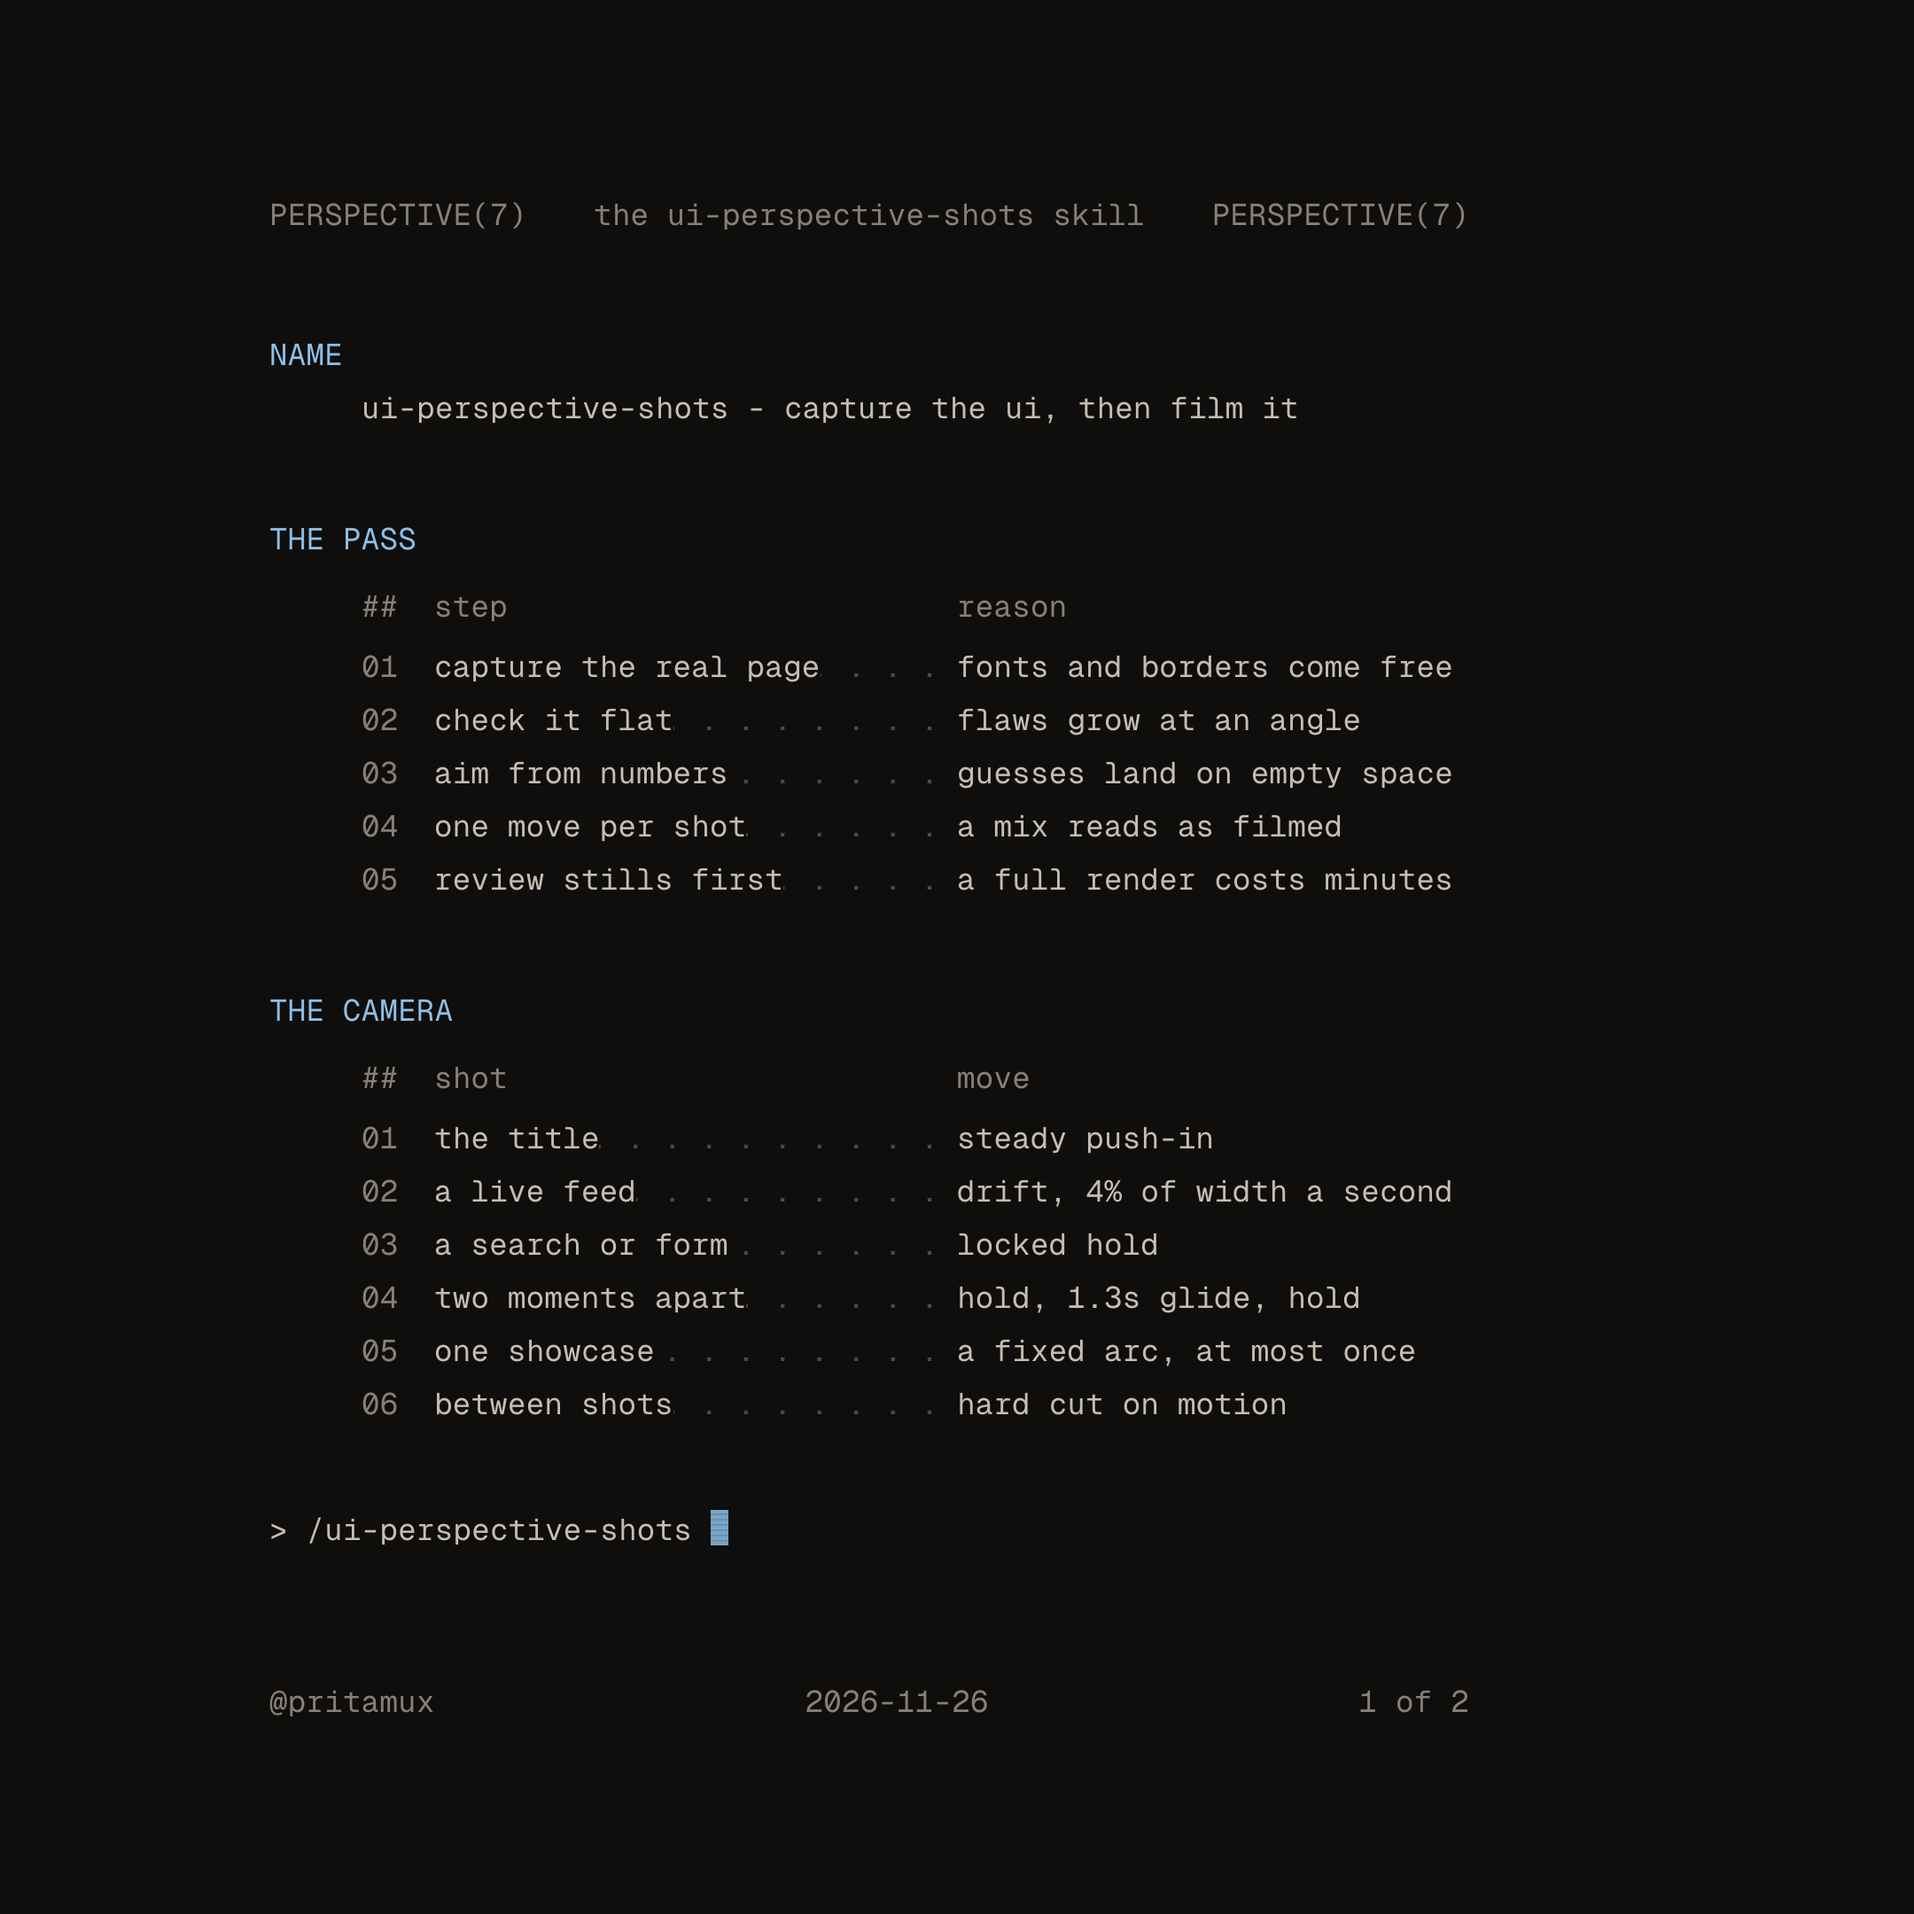
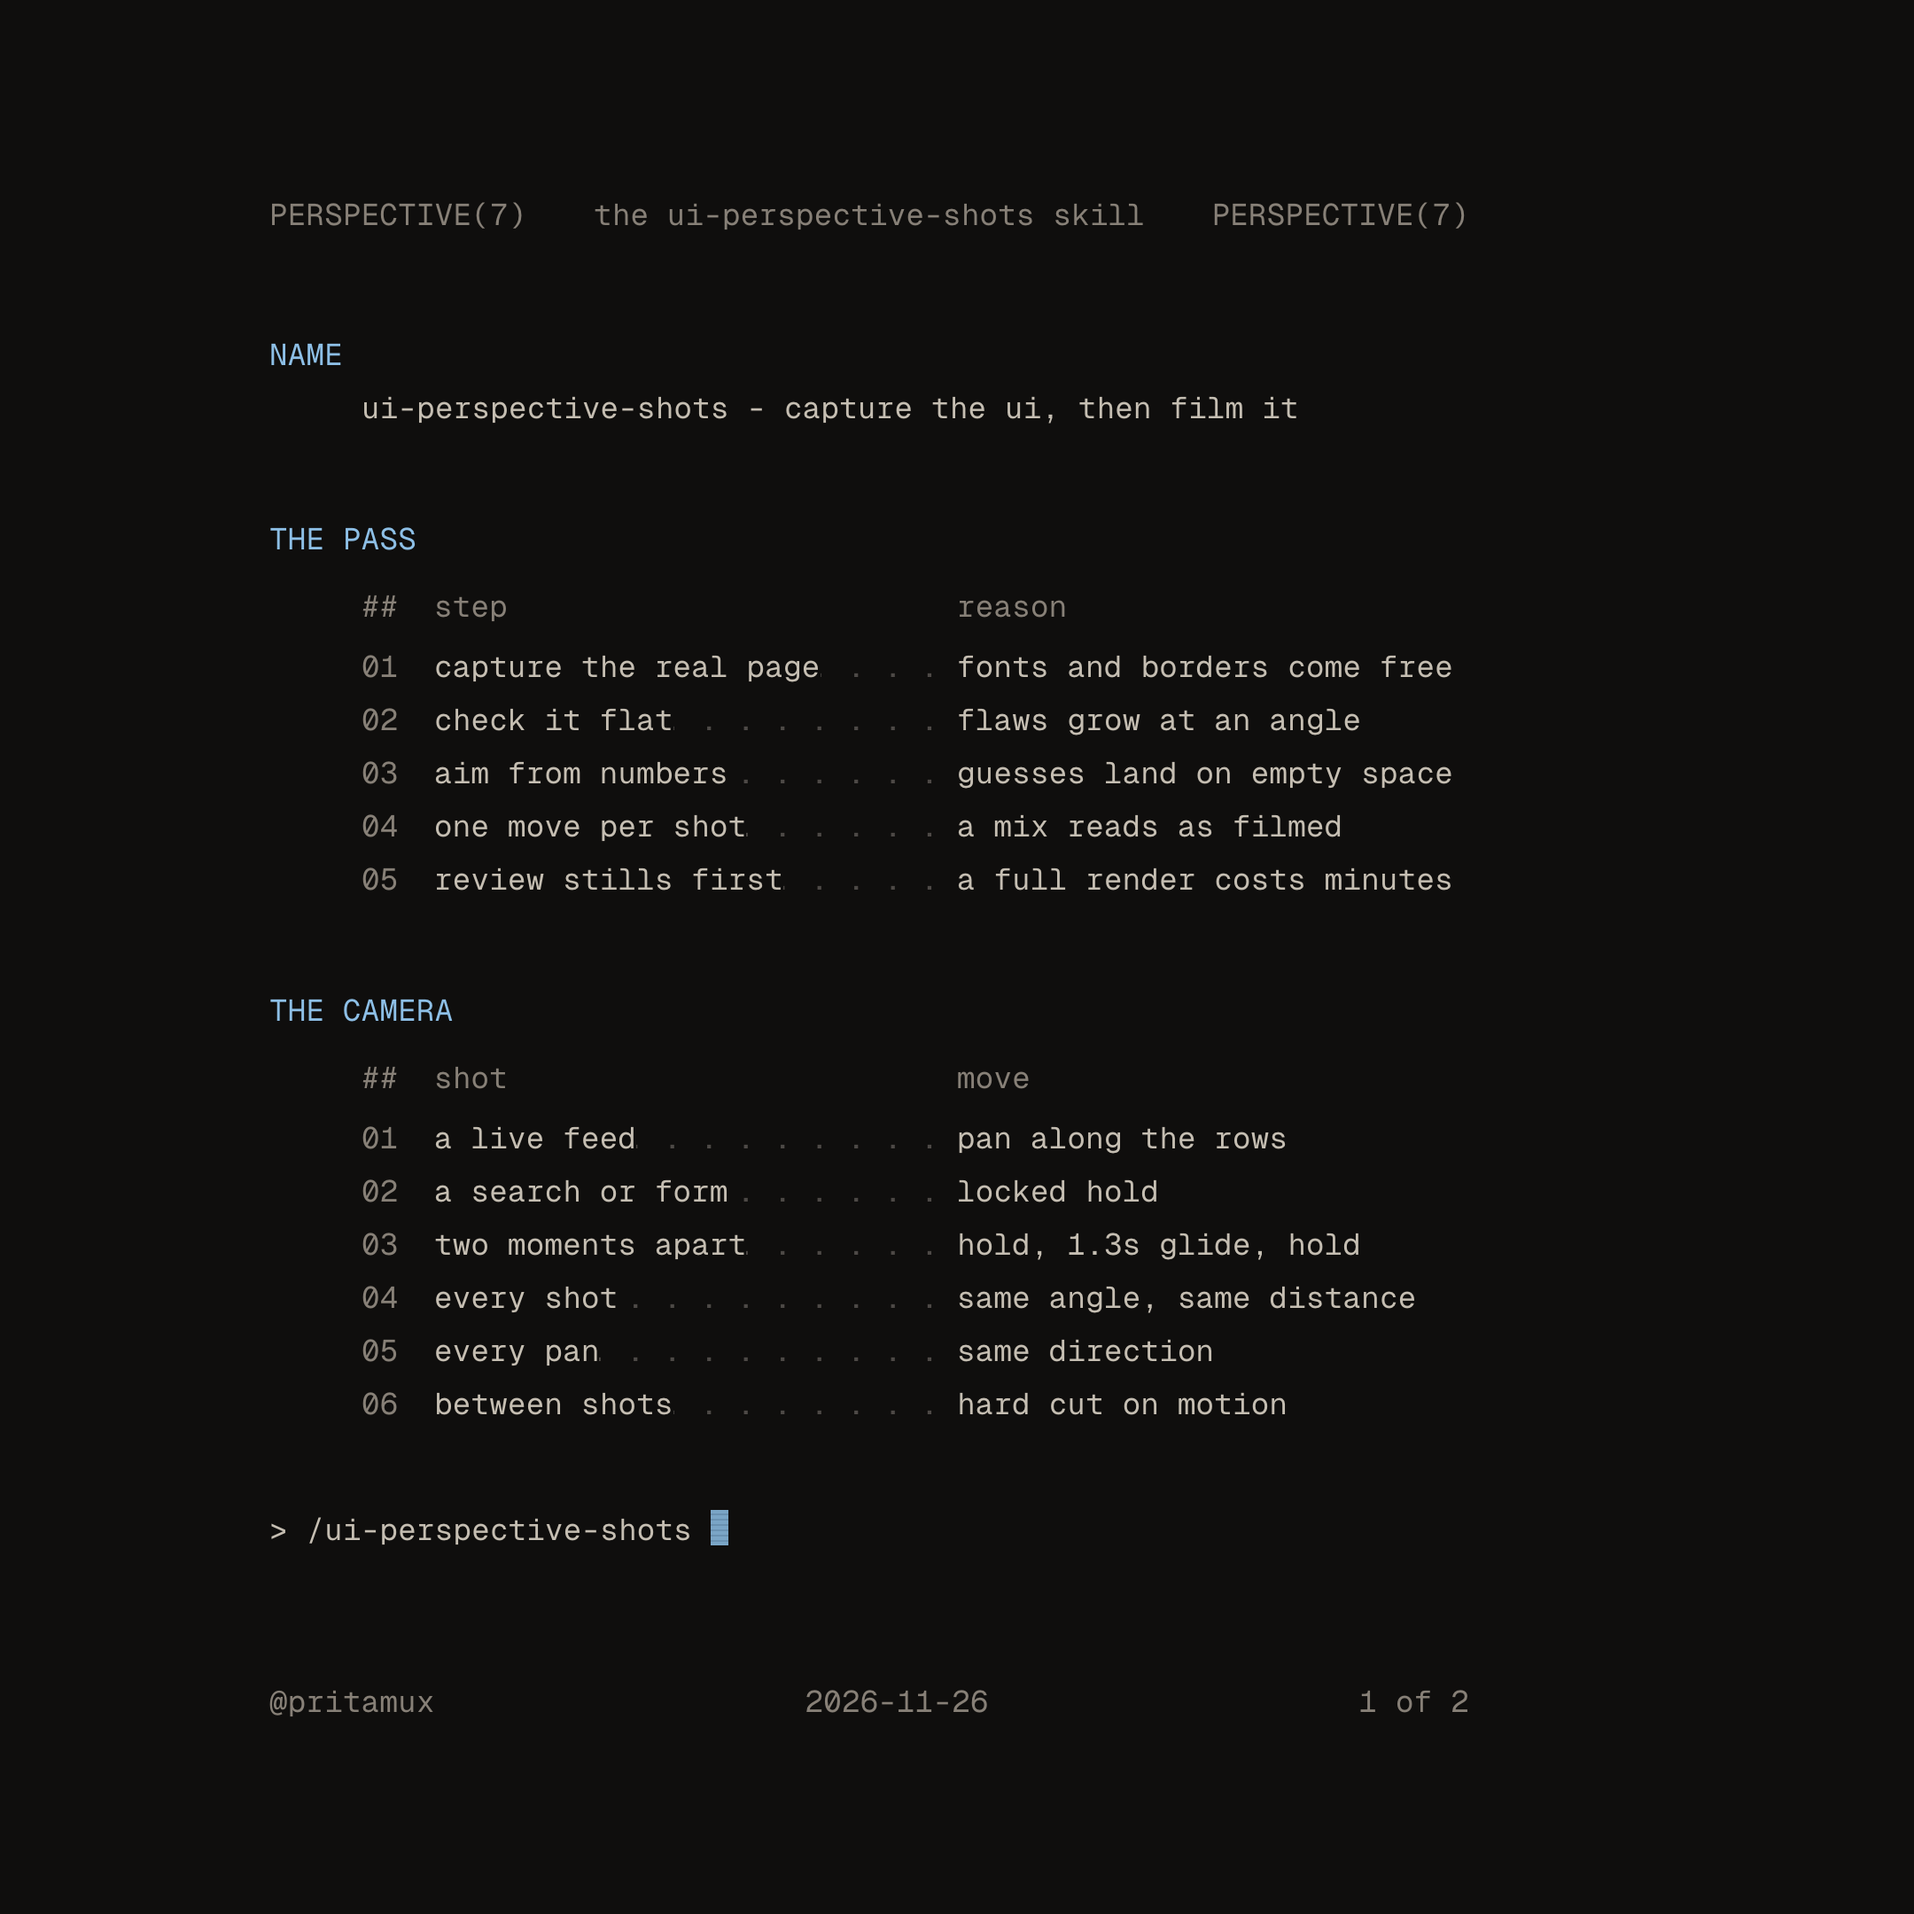
Cinematic camera rules: one move family, no pan-zoom mixing, unreleased pages

Changed region(s): [[0.4963, 0.5894, 0.7444, 0.7134], [0.2171, 0.5894, 0.3722, 0.7134], [0.7134, 0.6824, 0.7444, 0.7134]]

diff --git a/skills/ui-perspective-shots/SKILL.md b/skills/ui-perspective-shots/SKILL.md
@@ -97,39 +97,46 @@ The interface is never still in a video shot. Everything is a function of `t`; t
 
 Clip moving lists at the list's own container, never at the panel, or new rows draw over the panel header.
 
-### Camera language
+### Camera language: cinematic, never jumpy
 
-Each shot gets one kind of move, and the kinds vary across the reel. A cut where every shot is an arc or a glide reads as busy; a mix reads as filmed.
+The aim is a film, not a screen recording with effects. Every shot should look like it came from one camera operator with one plan. Jumpy, mixed moves read as amateur. When in doubt, do less.
+
+1. Pick one move family for the whole video and keep it. Pans (sideways trucks and drifts) plus holds is the default. Never cut from a pan to a zoom or from a zoom to a pan: across a hard cut, a change of move type reads as a jump.
+2. One move per shot, never two at once. A pan keeps `dz` constant; a push-in keeps `tx`, `ty` and `ox` constant. A drift with a slow push is a pan and a zoom together, so don't.
+3. Keep the angle and camera distance identical across the reel (one `rx`, `rz`, `p`, `dz`). Only the target moves. A new angle on every cut looks like a slideshow.
+4. Run every pan in the same direction, left to right by default, so cuts flow instead of reversing.
+5. Three or four shots is enough. Each extra shot is another cut the eye has to recover from.
 
 ```
 What is the shot for?
-├── Opening / title → steady push-in: dz +100–120 over 2.6–3s, constant speed (track)
-├── A live surface (feeds) → constant drift along the rows, ~4% of frame width per second,
-│   with a slow push; the UI's own motion is the subject
-├── An interaction (search, place, filter) → locked hold, drift under 1% of width per second
-├── Two moments far apart on one page → hold, one 1.3s ease-in-out-cubic glide, hold (pairs)
-└── A showcase moment, at most one per reel → an arc
+├── A live surface (feeds, tables) → pan along the rows at constant speed, ~5–6% of frame width per second
+├── An interaction (search, place, filter) → locked hold; the UI is the motion
+├── Two moments far apart on one page → hold, one 1.3s ease-in-out-cubic glide, hold (pairs, dz constant)
+└── A showcase moment, at most one per reel and only in an arc reel → an arc
 ```
 
 - Inside a shot, the camera moves at constant speed (`track`) or holds. No ease-in at the start of a shot and no ease-out at its end. Shots are cut into already moving and cut out of still moving. Measured on well-regarded product release videos: about 5% of frame width per second for a drift, 12.5% for a faster track, and holds of 1.5–5s at zero.
 - Easing belongs to one deliberate glide between two holds (`pairs`, 1.3s ease-in-out-cubic).
 - Between shots: hard cuts that land on motion. The incoming shot starts with something already moving (a row arriving, a value changing), so the eye is carried across the cut. Keep dissolves (`xfade`) for reels of arcs.
-- End card: hard cut to the empty card, then logo, title and URL come into focus one after another (blur 12px → 0 with opacity, no movement, 0.7s each, at 0.15 / 0.35 / 0.9s), held to the end.
+- End card (optional): hard cut to the empty card, then logo, title and URL come into focus one after another (blur 12px → 0 with opacity, no movement, 0.7s each, at 0.15 / 0.35 / 0.9s), held to the end.
 - Rotation inside one shot changes by 2° at most, unless the shot is an arc.
 - Never fade the first frame in from black: on most social platforms the first frame is the thumbnail.
 - To compare a cut with a reference video, run `python3 kit/motion.py <video>` (needs numpy). It prints camera speed per half second as a percentage of frame width per second.
+
+### Unreleased pages
+
+When the page isn't public yet, show the content without anything that names it. Hide the navigation bar, the page title or breadcrumb, the search field and the status bar. Hide them after `afterBuild` has measured the layout (set `display: none` on those elements), then re-run `measure.cjs`: the content moves up, so every camera target changes. With the header gone, the first content sits at the page's top edge, so frame it near the top-left corner of the screen. Centred, the empty space above the page fills half the frame.
 
 ## 6. Build the launch video
 
 | # | Shot | Move | Length |
 |---|------|------|--------|
-| 1 | Hook: logo and page title, live motion below | Steady push-in | 2.8s |
-| 2 | Live surface (the busiest screen) | Constant drift along the rows | 3.8s |
-| 3 | Core interaction (search, place, filter) | Locked hold | 3.6s |
-| 4 | Payoff: a record changing state, read close | Hold, 1.3s glide, hold | 4.4s |
-| 5 | End card: product mark, feature name in the product's title face, short URL | Static, lines focus in | 3.0s |
+| 1 | Live surface (the busiest screen), rows landing from the first frame | Pan along the rows | 4.4s |
+| 2 | Payoff: a record changing state, read close | Hold, 1.3s glide, hold | 4.4s |
+| 3 | A second surface (a list or history) | Pan, same direction | 4.2s |
+| 4 | End card, if the feature is public: product mark, feature name, short URL | Static, lines focus in | 3.0s |
 
-About 17.5s, hard cuts throughout. The hook must read with the sound off on a phone in the first second. Confirm the URL before posting; never guess a launch address. If the result feels rushed, stretch the whole reel with `SPEEDS = { launch: 1.15 }` rather than retiming shots one by one; that keeps camera, UI motion and cuts in proportion.
+About 13–16s, one angle and one camera distance throughout, hard cuts. The first shot must read with the sound off on a phone in the first second. Confirm the URL before posting; never guess a launch address. If the result feels rushed, stretch the whole reel with `SPEEDS = { launch: 1.15 }` rather than retiming shots one by one; that keeps camera, UI motion and cuts in proportion.
 
 ## 7. Review, then render
 

diff --git a/README.md b/README.md
@@ -22,7 +22,7 @@ Then ask your agent for the set, or call it directly:
 
 ## What it makes
 
-- One launch video, about 17 seconds at 1080p and 60 fps. A push-in on the title, a drift over the live feed, a hold on the main interaction, one glide on a record, then an end card.
+- One launch video, about 15 seconds at 1080p and 60 fps. Pans across the live surfaces, one glide on a record, one angle throughout, hard cuts.
 - 5 to 8 stills at 3840×2160 from the same capture.
 - Optional reels of camera arcs and macro pans, for separate posts.
 
